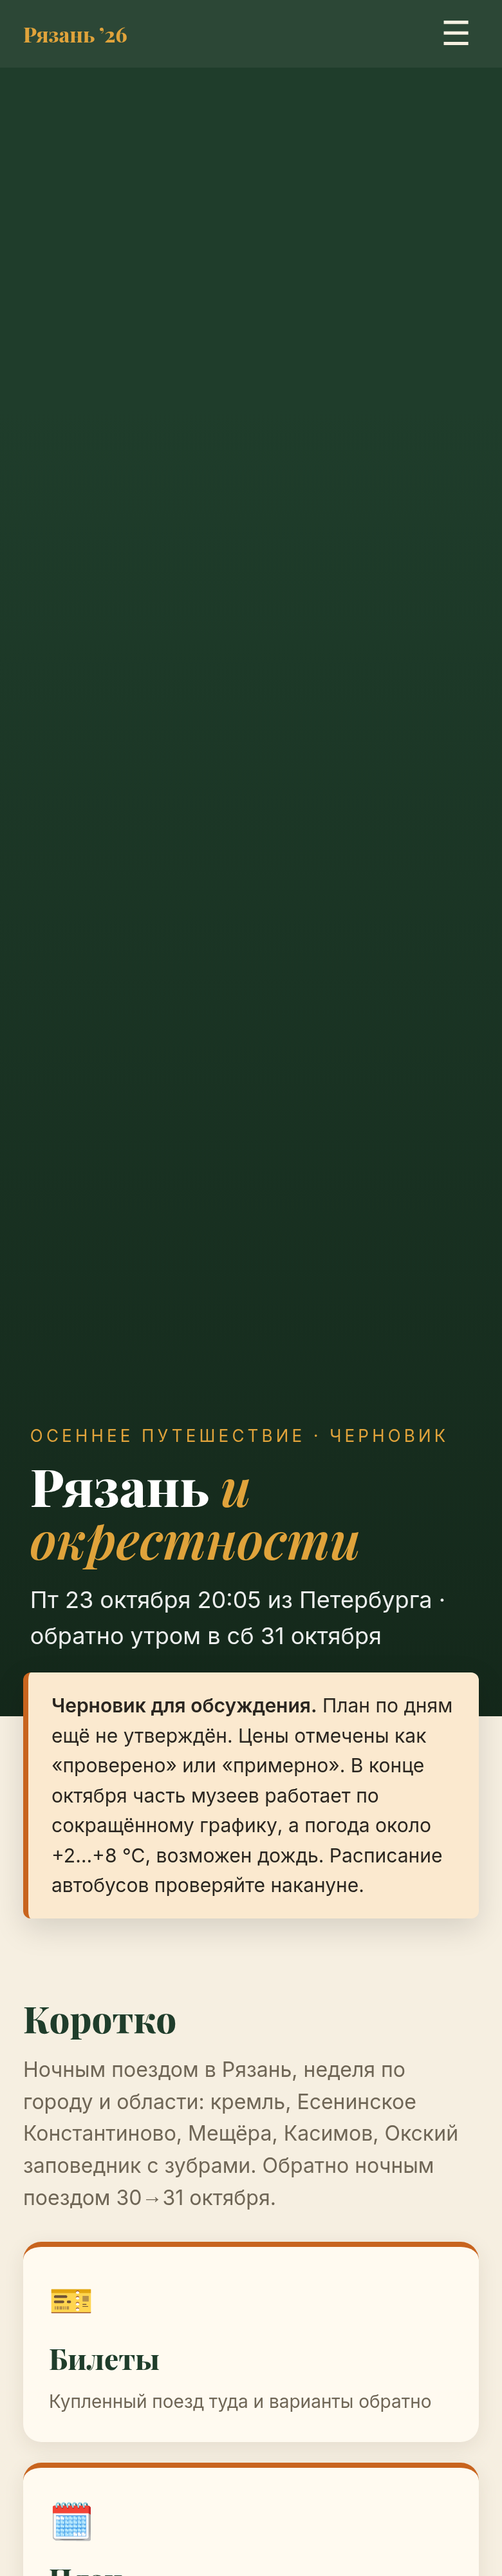
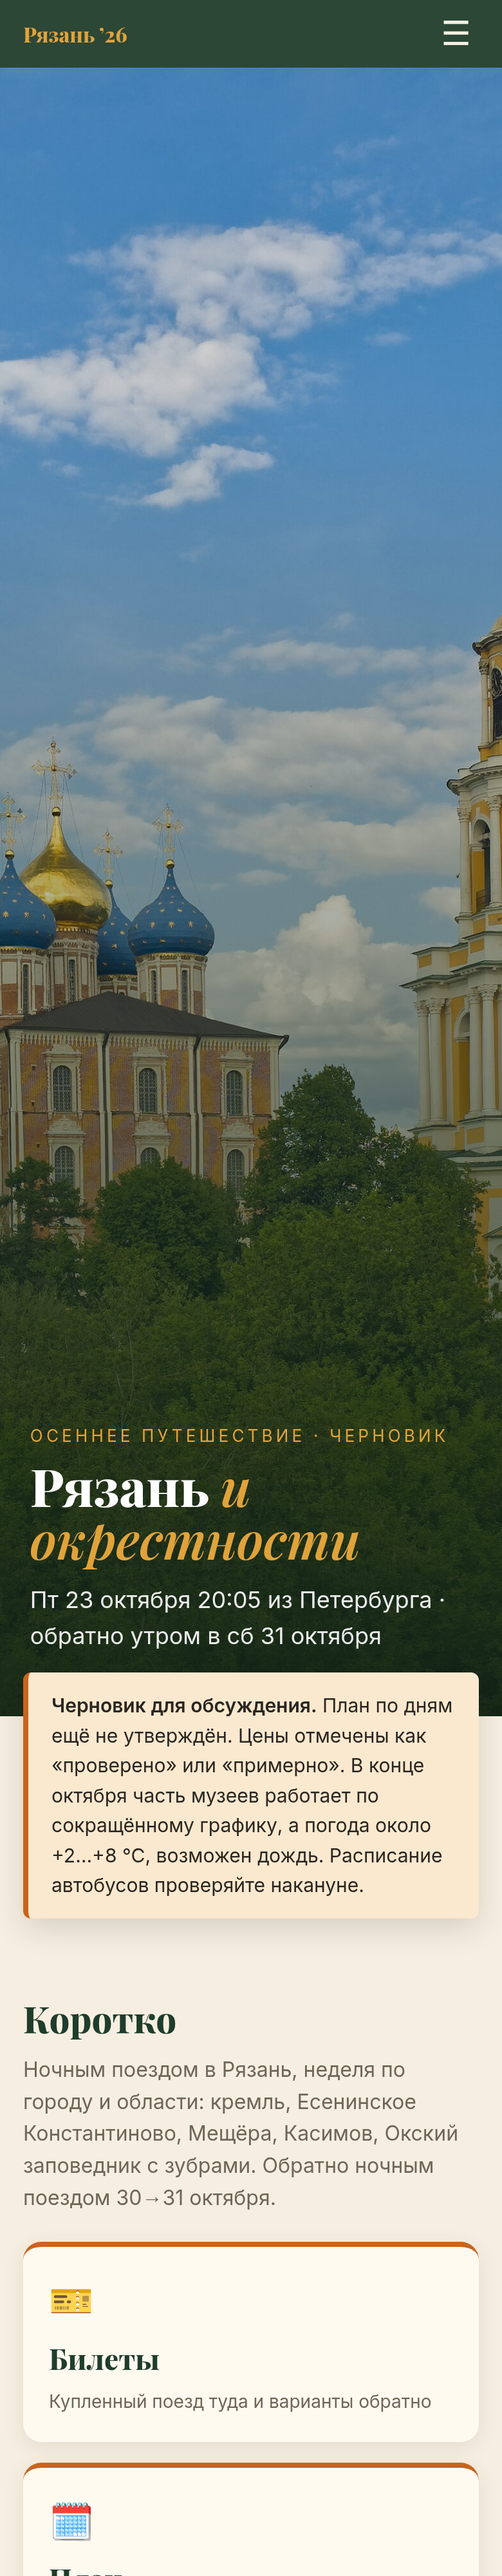
Reading/watching list

diff --git a/checklist.html b/checklist.html
@@ -3,7 +3,7 @@
 <link rel="preconnect" href="https://fonts.googleapis.com"><link href="https://fonts.googleapis.com/css2?family=Playfair+Display:ital,wght@0,600;0,800;1,600&family=Inter:wght@400;500;600&display=swap" rel="stylesheet">
 <link rel="stylesheet" href="assets/style.css"></head><body>
 <nav><b>Рязань ’26</b><button class="burger" aria-label="Меню">☰</button><div class="lnk"><a href="index.html">Главная</a><a href="tickets.html">Билеты</a><a href="plan.html">План</a><a href="map.html">Карта</a><a href="checklist.html" class=on>Чек-лист</a><a href="diary.html">Дневник</a></div></nav>
-<header class="ptitle"><h1>Чек-лист</h1><p>Отметки сохраняются в этом браузере.</p></header><div class="wrap"><section><div class="cl rv"><label><input type="checkbox"><span>Купить обратный билет</span></label><label><input type="checkbox"><span>Забронировать жильё в Рязани (24–27 и 28–30.10)</span></label><label><input type="checkbox"><span>Паспорт, билеты офлайн</span></label><label><input type="checkbox"><span>Тёплая непромокаемая куртка, шапка, удобная обувь для грязи</span></label><label><input type="checkbox"><span>Зонт, пауэрбанк, наличные на автобусы и рынки</span></label><label><input type="checkbox"><span>Проверить расписание автобусов (Константиново, Касимов, Спас-Клепики)</span></label><label><input type="checkbox"><span>Окский заповедник: выбрать время экскурсии (10:30 / 12:30 / 14:30)</span></label><label><input type="checkbox"><span>Решить про Кирицы (запись на 24.10)</span></label><label><input type="checkbox"><span>Жильё в Касимове на 27.10</span></label></div></section><section><h2 class="rv">Полезные ссылки</h2><div class="links rv"><a href="https://rasp.yandex.ru/">Яндекс Расписания</a><a href="https://www.tutu.ru/poezda/">Туту — поезда</a><a href="https://ticket.rzd.ru/">РЖД</a><a href="https://www.museum-esenin.ru/">Музей-заповедник Есенина</a><a href="https://ryazankreml.ru/">Рязанский кремль</a><a href="https://www.oka-reserve.ru/">Окский заповедник</a></div></section></div>
+<header class="ptitle"><h1>Чек-лист</h1><p>Отметки сохраняются в этом браузере.</p></header><div class="wrap"><section><div class="cl rv"><label><input type="checkbox"><span>Купить обратный билет</span></label><label><input type="checkbox"><span>Забронировать жильё в Рязани (24–27 и 28–30.10)</span></label><label><input type="checkbox"><span>Паспорт, билеты офлайн</span></label><label><input type="checkbox"><span>Тёплая непромокаемая куртка, шапка, удобная обувь для грязи</span></label><label><input type="checkbox"><span>Зонт, пауэрбанк, наличные на автобусы и рынки</span></label><label><input type="checkbox"><span>Проверить расписание автобусов (Константиново, Касимов, Спас-Клепики)</span></label><label><input type="checkbox"><span>Окский заповедник: выбрать время экскурсии (10:30 / 12:30 / 14:30)</span></label><label><input type="checkbox"><span>Решить про Кирицы (запись на 24.10)</span></label><label><input type="checkbox"><span>Жильё в Касимове на 27.10</span></label></div></section><section><h2 class="rv">Посмотреть и почитать перед поездкой</h2><div class="cl rv"><label><input type="checkbox"><span><b>Сериал «Есенин»</b> (2005, 11 серий, Сергей Безруков) — биография поэта; Лидию Кашину играет Ирина Безрукова</span></label><label><input type="checkbox"><span><b>К. Паустовский, «Мещёрская сторона»</b> — написана в Солотче, где Паустовский жил много лет; мы будем там 26.10</span></label><label><input type="checkbox"><span><b>С. Есенин, поэма «Анна Снегина»</b> — действие в Константинове; прототип героини — Лидия Кашина, её усадьбу увидим 25.10</span></label><label><input type="checkbox"><span><b>Стихи Есенина о родине</b>: «Гой ты, Русь моя родная», «Письмо матери», «Отговорила роща золотая» — осенние, под настроение</span></label><label><input type="checkbox"><span><b>К. Паустовский, «Золотая роза»</b> — в том числе о Солотче и доме Пожалостиных, где жил писатель</span></label></div></section><section><h2 class="rv">Полезные ссылки</h2><div class="links rv"><a href="https://rasp.yandex.ru/">Яндекс Расписания</a><a href="https://www.tutu.ru/poezda/">Туту — поезда</a><a href="https://ticket.rzd.ru/">РЖД</a><a href="https://www.museum-esenin.ru/">Музей-заповедник Есенина</a><a href="https://ryazankreml.ru/">Рязанский кремль</a><a href="https://www.oka-reserve.ru/">Окский заповедник</a></div></section></div>
 <footer><div class="wrap">Черновик собран 17.10.2026. Время везде московское.<br><br>Фото: Wikimedia Commons — <a href="https://commons.wikimedia.org/wiki/File:Ryazan._Cathedral_of_the_Dormition_and_Cathedral_belltower_of_the_Ryazan_Kremlin_P5160395_2800.jpg">Рязанский кремль (обложка)</a> и <a href="https://commons.wikimedia.org/wiki/File:Ryazan._Kremlin_P5210606_2350.jpg">вид на кремль</a> © Alexxx1979, CC BY-SA 4.0 ·
 <a href="https://commons.wikimedia.org/wiki/File:RybnoeDistrict_06-13_Konstantinovo_village_09.jpg">Константиново</a> © A.Savin, CC BY-SA 3.0 ·
 <a href="https://commons.wikimedia.org/wiki/File:Solotchinsky_Christmas_convent.jpg">Солотчинский монастырь</a> © Nick Fishman, CC BY-SA 3.0 ·

diff --git a/build.py b/build.py
@@ -45,8 +45,9 @@ for i,d in enumerate(days):
 flt=''.join(f'<button class="on" data-d="{k}" style="--c:{D["colors"][k]}">{k} · {v}</button>' for k,v in D['legend'].items())
 page('map.html','Карта',head('Карта','Цвет и номер метки — день поездки. Нажмите на день, чтобы скрыть или показать его точки.')+f'<div class="wrap"><section><div class="flt">{flt}</div><div id="bigmap" data-map="all"></div></section></div>','map.html',True)
 cl=''.join(f'<label><input type="checkbox"><span>{x}</span></label>' for x in D['checklist'])
+rd=''.join(f'<label><input type="checkbox"><span>{x}</span></label>' for x in D.get('reading',[]))
 lk=''.join(f'<a href="{l["url"]}">{l["title"]}</a>' for l in D['links'])
-page('checklist.html','Чек-лист',head('Чек-лист','Отметки сохраняются в этом браузере.')+f'<div class="wrap"><section><div class="cl rv">{cl}</div></section><section><h2 class="rv">Полезные ссылки</h2><div class="links rv">{lk}</div></section></div>','checklist.html')
+page('checklist.html','Чек-лист',head('Чек-лист','Отметки сохраняются в этом браузере.')+f'<div class="wrap"><section><div class="cl rv">{cl}</div></section><section><h2 class="rv">Посмотреть и почитать перед поездкой</h2><div class="cl rv">{rd}</div></section><section><h2 class="rv">Полезные ссылки</h2><div class="links rv">{lk}</div></section></div>','checklist.html')
 dl=''.join(f'<a class="rv" href="{dlink(d)}#was"><div class="th" style="background-image:url(img/{d["img"]}.jpg)"></div><div><b>{d["dt"]} · {d["title"]}</b><br><small>{"Есть заметки" if d.get("diary") else "Пока пусто"}</small></div></a>' for d in days)
 page('diary.html','Дневник',head('Дневник','Заполняется во время и после поездки.')+f'<div class="wrap"><section><div class="dl">{dl}</div></section></div>','diary.html')
 print('ok')
